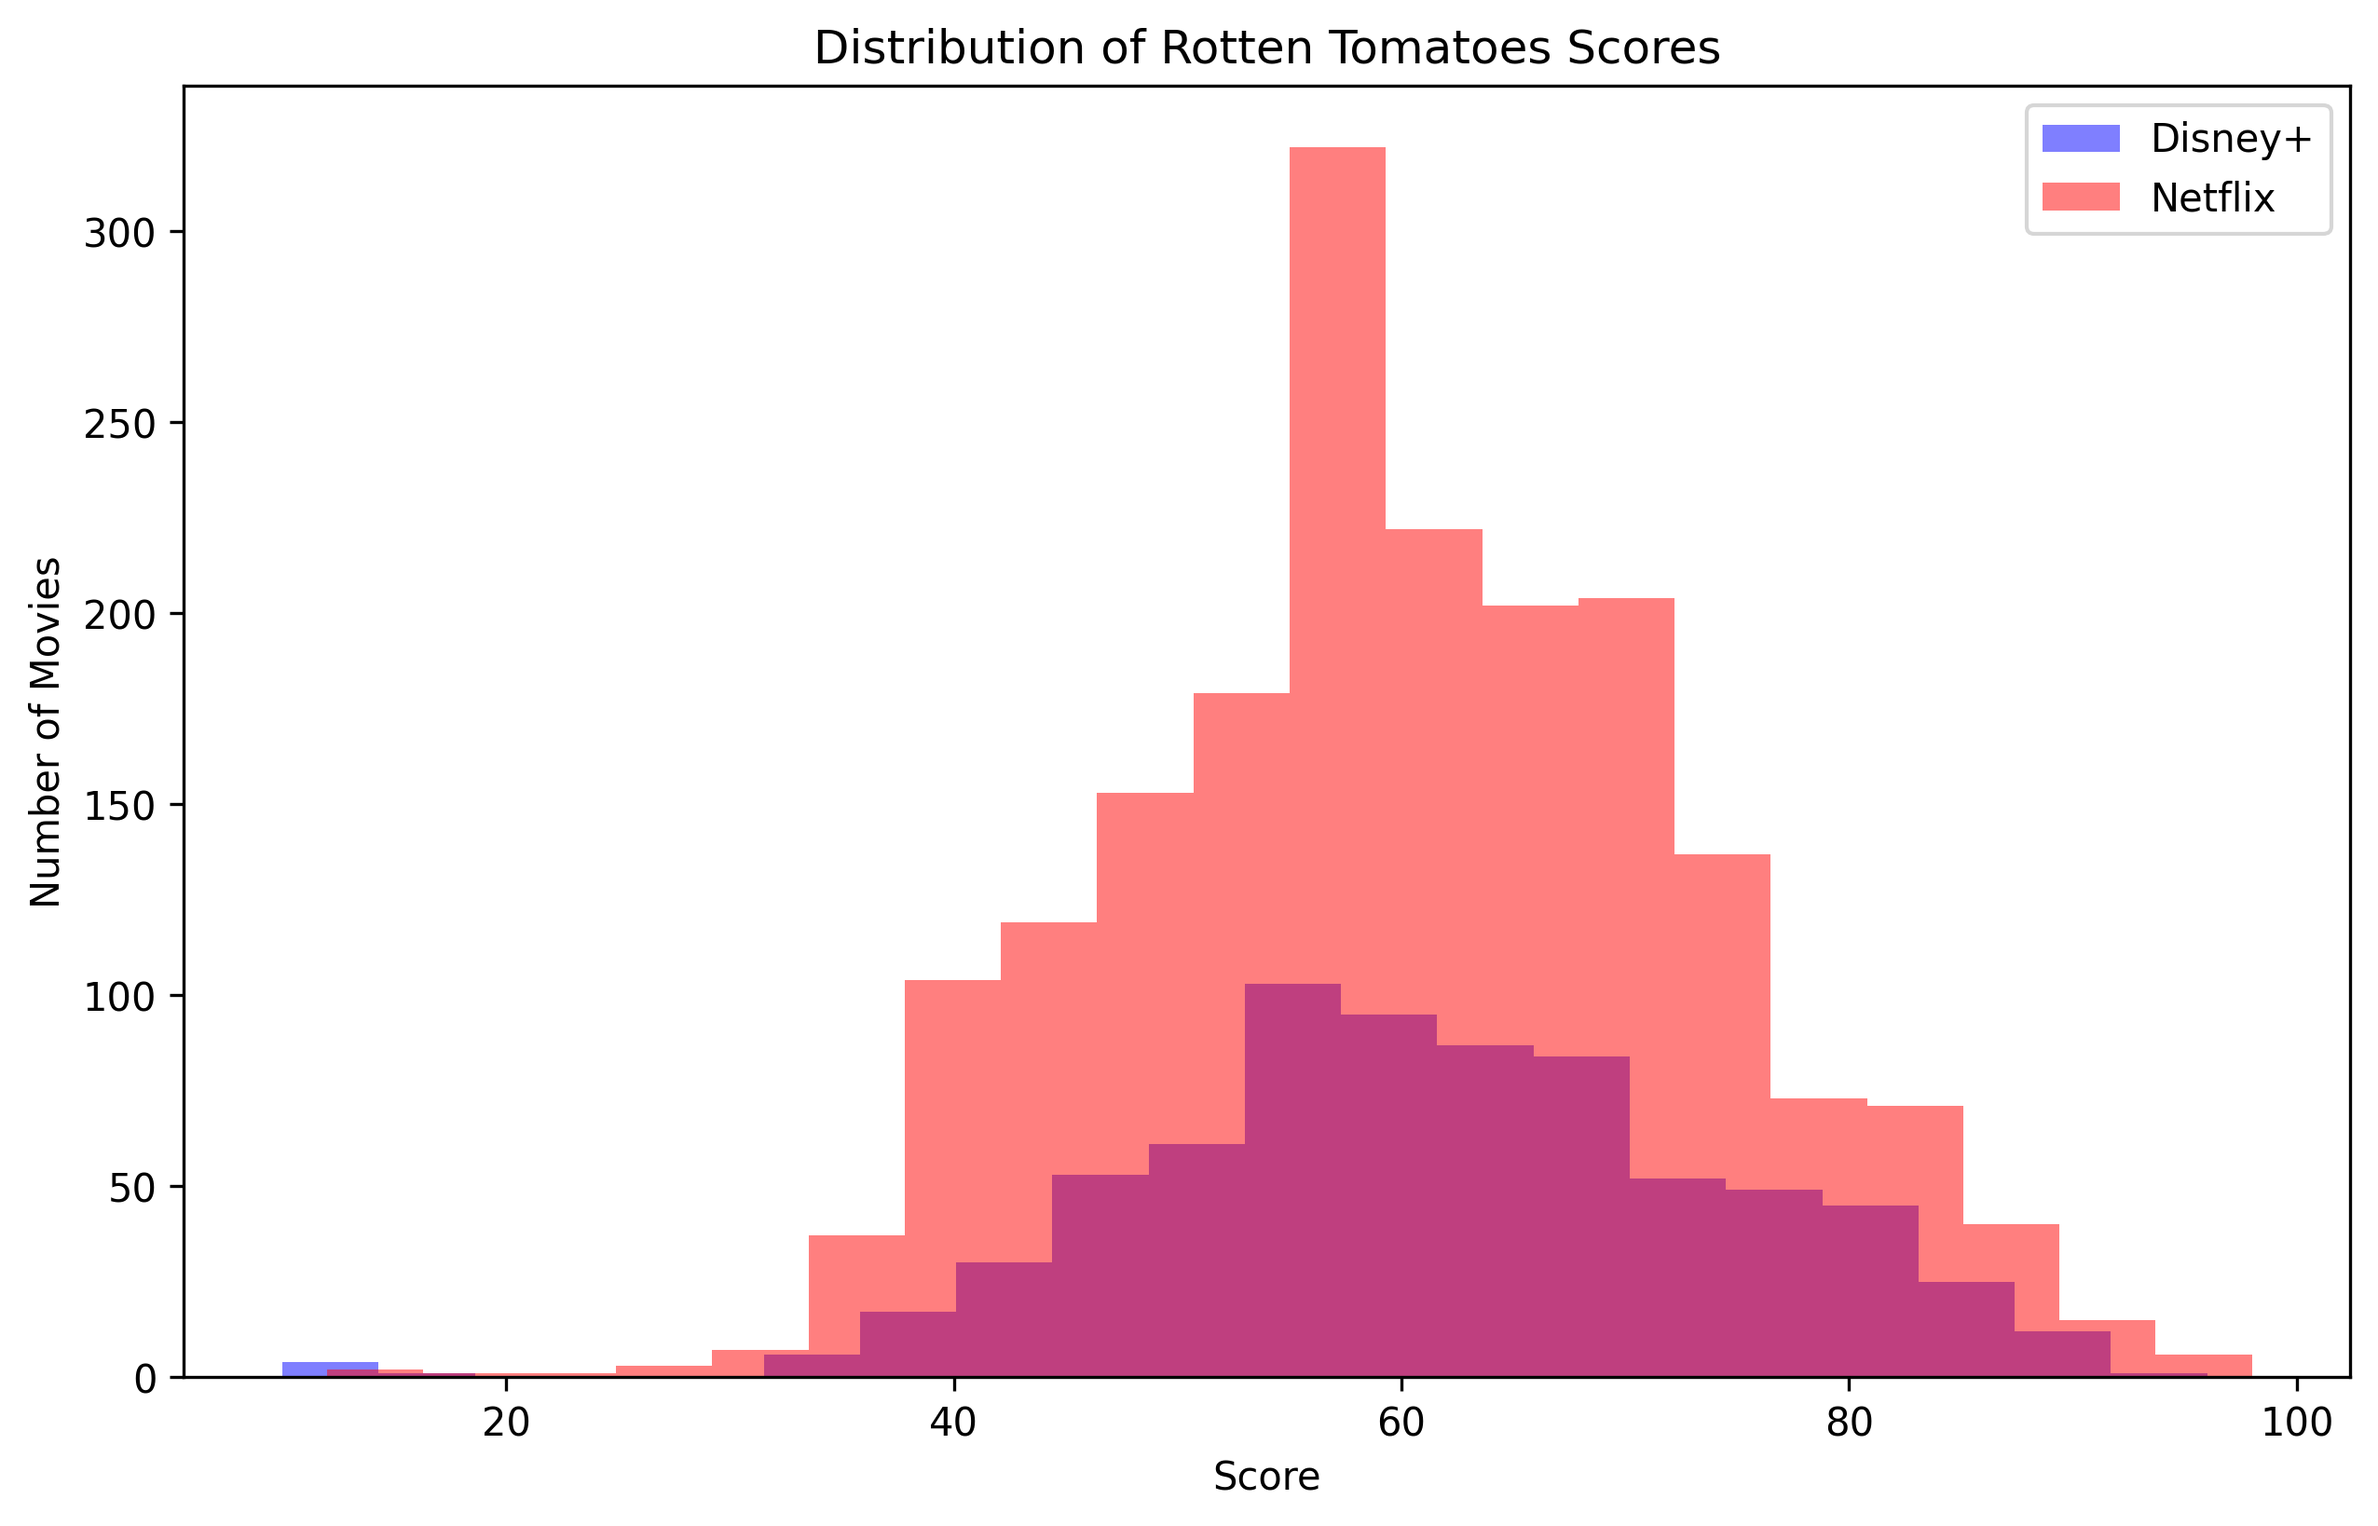
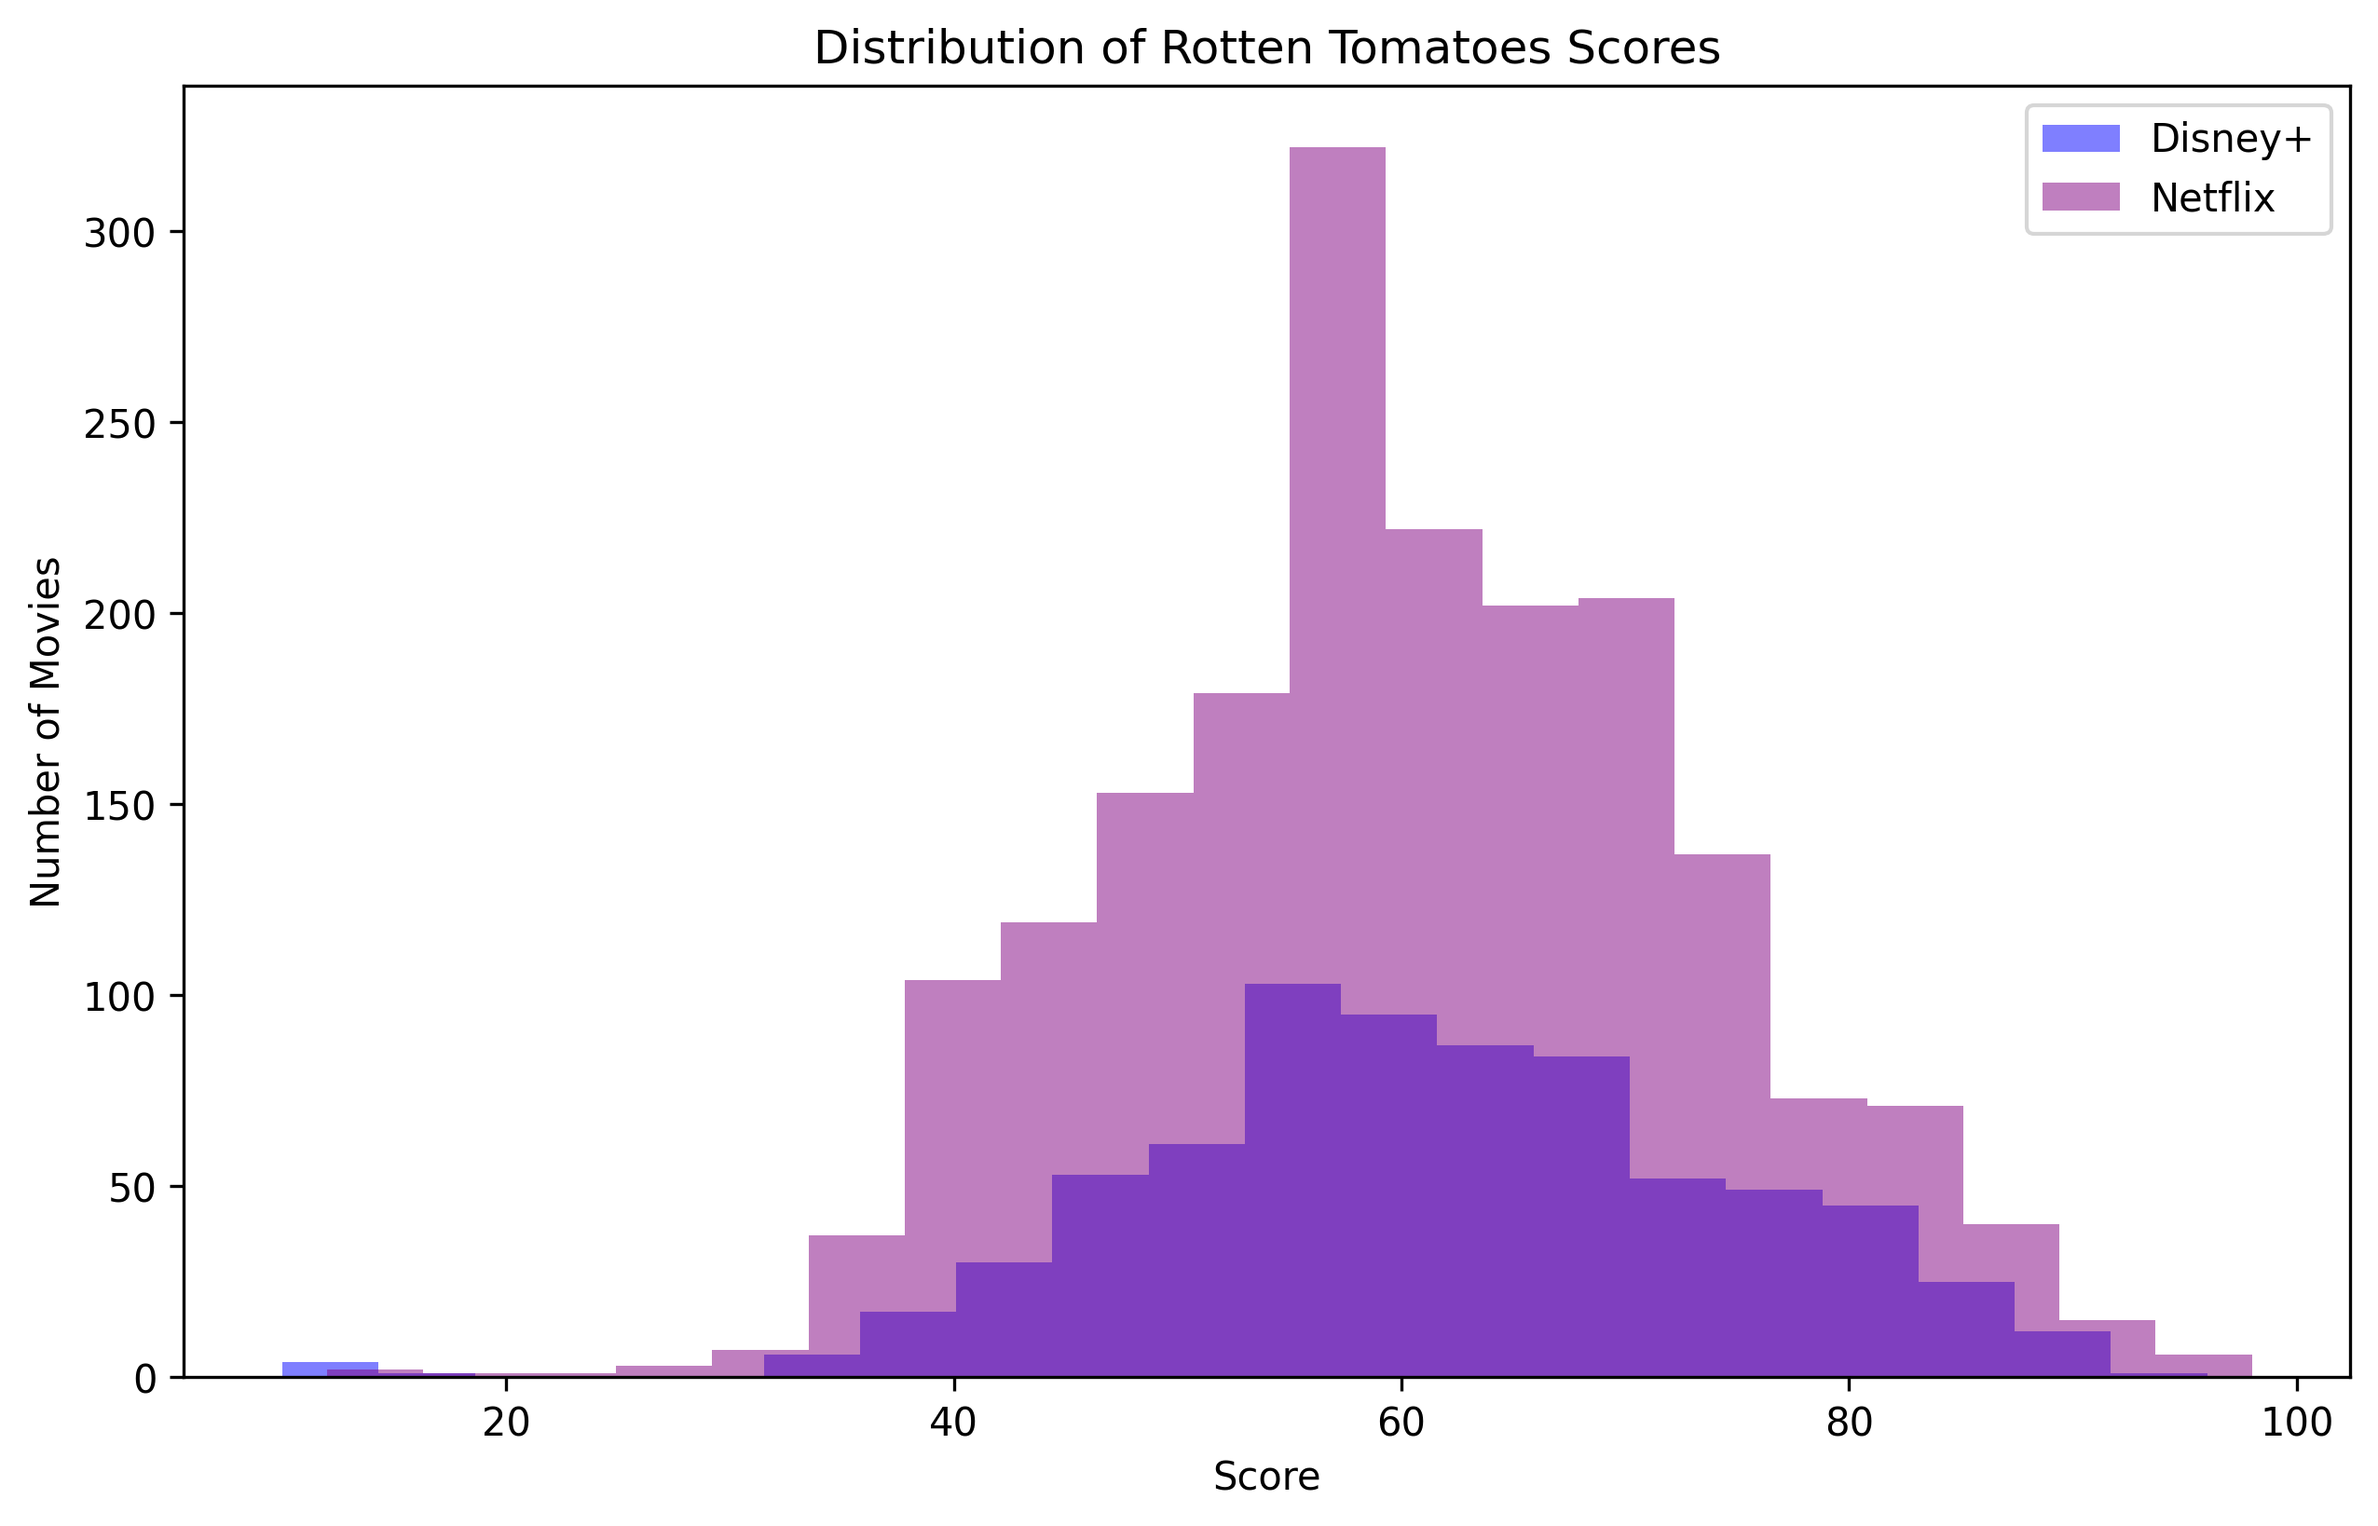
updated quality distubution

Changed region(s): [[0.2476, 0.0934, 0.9596, 0.9029], [0.8358, 0.0934, 0.8977, 0.1557], [0.1548, 0.8718, 0.1857, 0.9029]]

diff --git a/main.py b/main.py
@@ -187,7 +187,7 @@ def create_quality_histogram():
     netflix_scores = df_clean[df_clean['Netflix'] == 1]['Rotten_Tomatoes']
     
     plt.hist(disney_scores, alpha=0.5, label='Disney+', bins=20, color='blue')
-    plt.hist(netflix_scores, alpha=0.5, label='Netflix', bins=20, color='red')
+    plt.hist(netflix_scores, alpha=0.5, label='Netflix', bins=20, color='purple')
     plt.title('Distribution of Rotten Tomatoes Scores')
     plt.xlabel('Score')
     plt.ylabel('Number of Movies')
